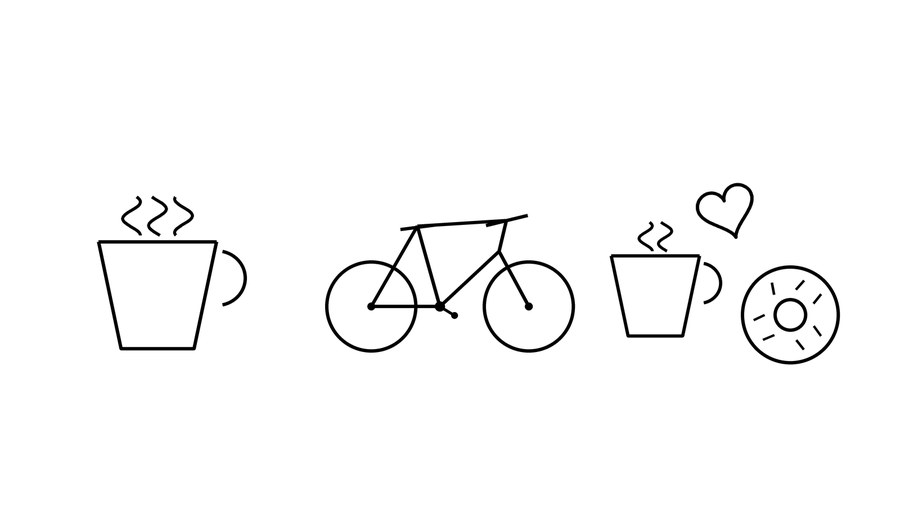
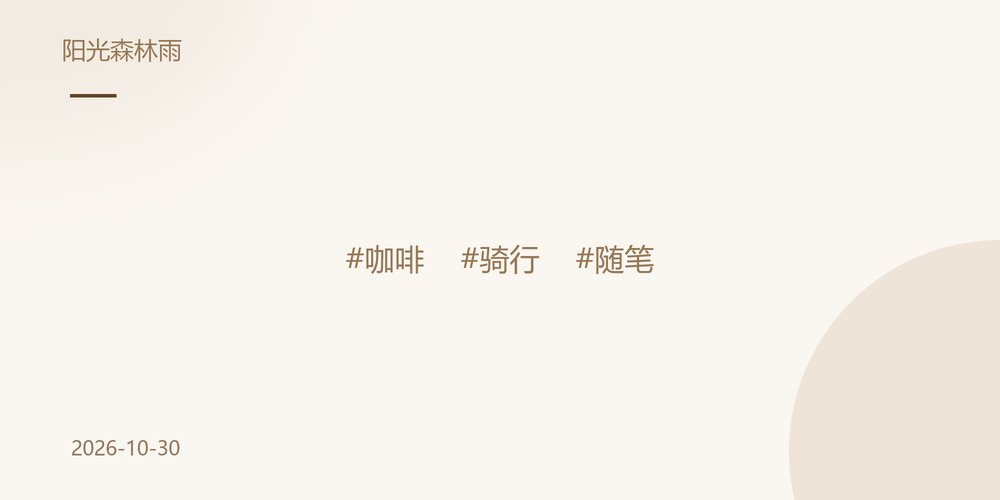
style: 咖啡文封面统一为标签模板，插画退回正文

diff --git a/content/posts/two-km-for-a-coffee-date/index.md b/content/posts/two-km-for-a-coffee-date/index.md
@@ -10,4 +10,6 @@ tags = ['咖啡', '骑行', '随笔']
 categories = ['生活']
 +++
 
+![骑行两公里，为咖啡找个伴](images/coffee-date.png "骑行两公里，为咖啡找个伴")
+
 我冲了一杯咖啡，没有配餐觉得少了点意思。我骑上我的小黑8去市场买了个甜甜圈跟咖啡作伴。咖啡很开心，我也很开心。***这就是生活啊***
